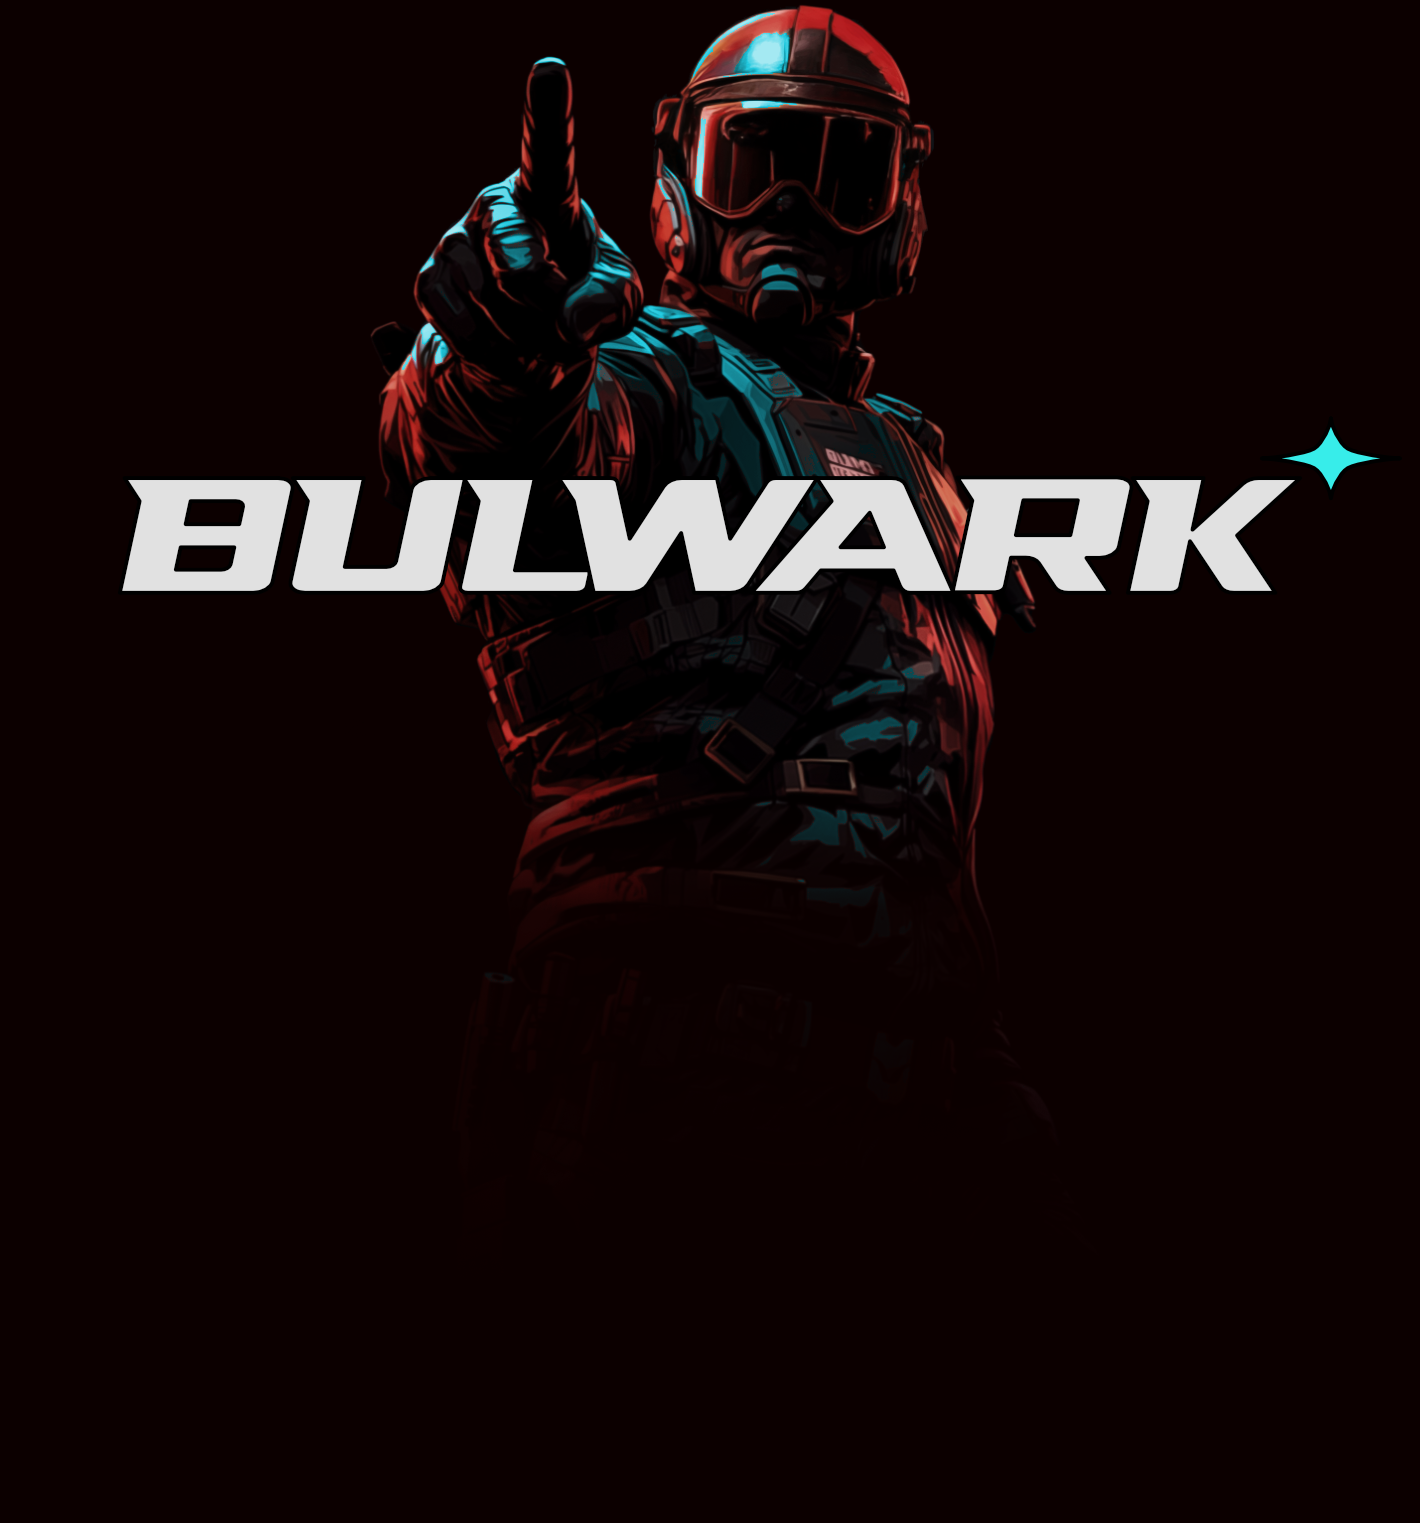
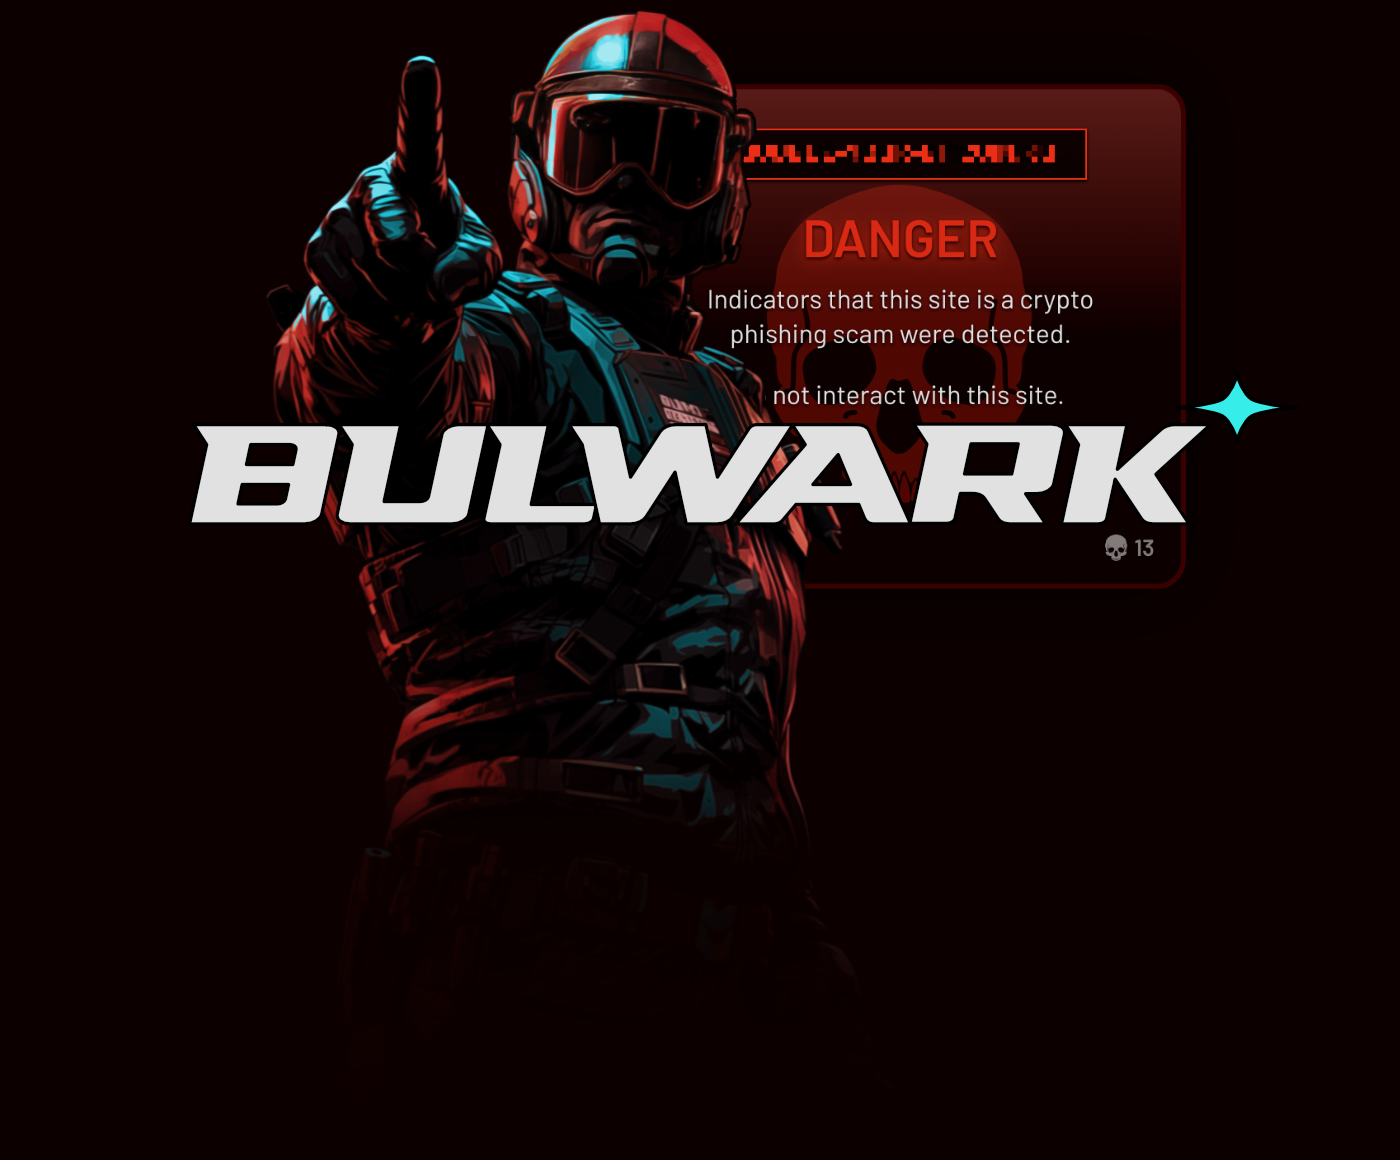
update bulwark keyart and copy

Changed region(s): [[0.0921, 0.0, 0.9214, 0.7138], [0.9214, 0.2793, 0.9521, 0.3103]]

diff --git a/index.html b/index.html
@@ -39,7 +39,7 @@
       <h2 class="bulwark-header"><img class="bulwark-keyart" src="bulwark-keyart.png" alt="An armored soldier pointing ahead with the Bulwark logo in-front"/></h2>
 
       <p>
-        Bulwark by Protspec is a browser extension that detects crypto scam
+        Bulwark is a browser extension that detects crypto scam
         websites. By combining code analysis with domain blocklists,
         Bulwark can differentiate legitimate websites from crypto scams and warn
         you when you are about to face danger.

diff --git a/style.css b/style.css
@@ -27,7 +27,7 @@ body {
 .bulwark-header {
   text-align: center;
   position: relative;
-  margin-bottom: -250px;
+  margin-bottom: -170px;
   z-index: -1;
 }
 
@@ -146,6 +146,6 @@ a {
   }
 
   .bulwark-header {
-    margin-bottom: -210px;
+    margin-bottom: -140px;
   }
 }
